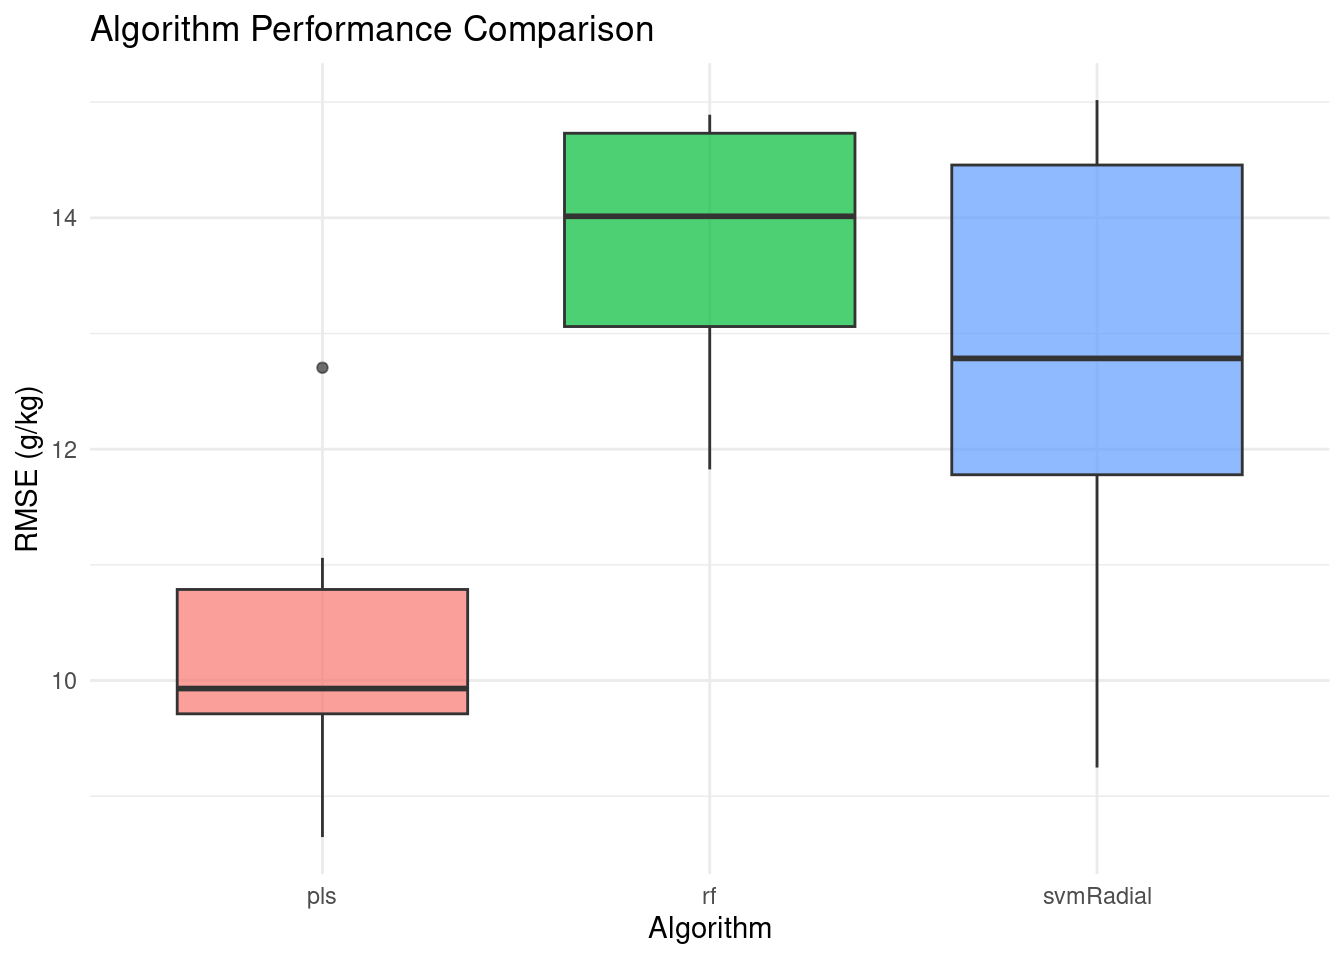
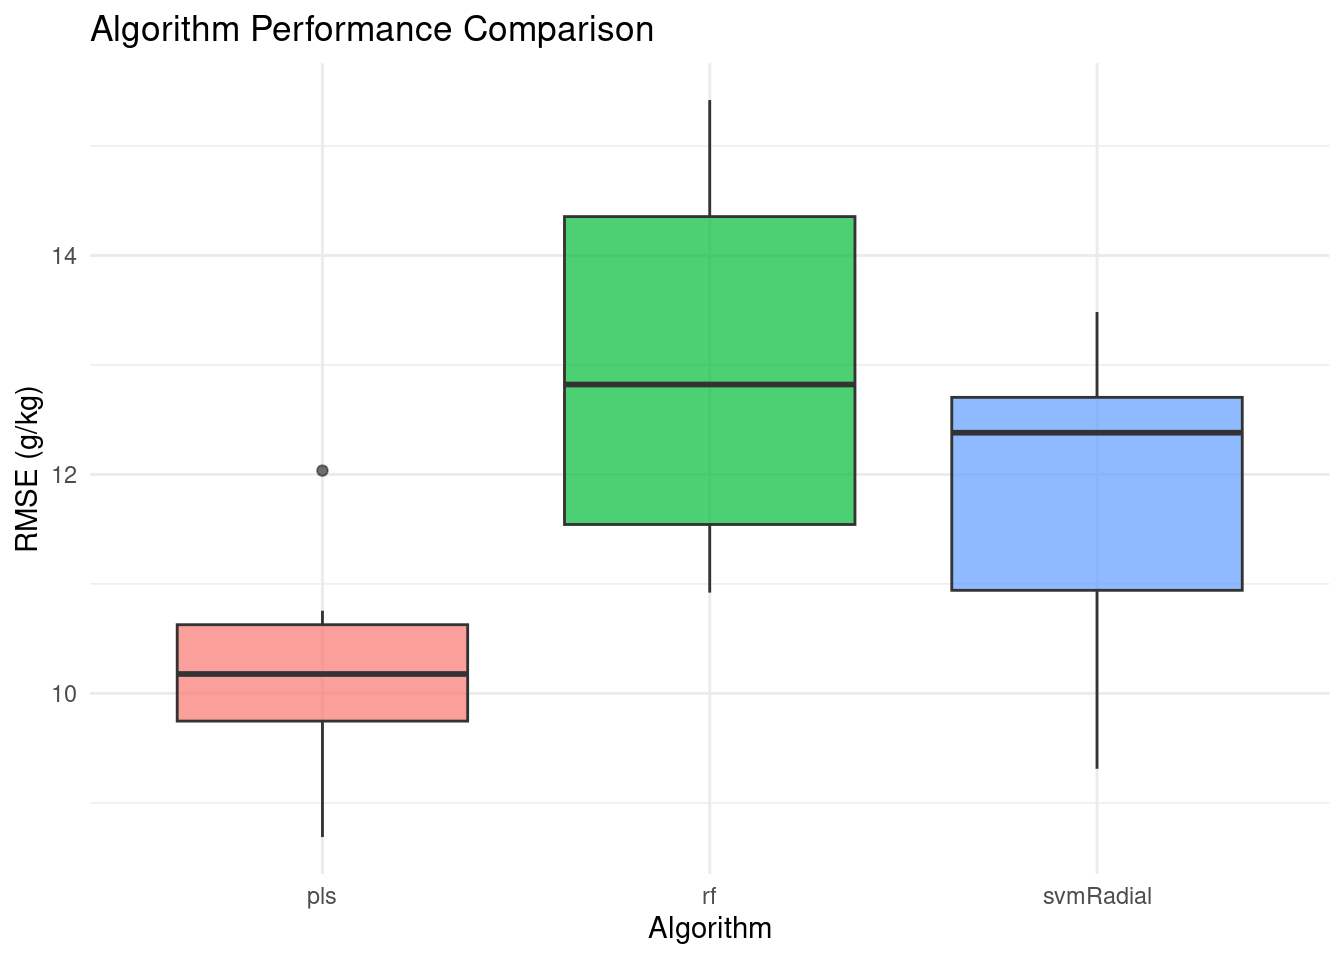
revised figures, some currently incorrect

diff --git a/docs/hemp_nir_paper.html b/docs/hemp_nir_paper.html
@@ -661,7 +661,10 @@ Table&nbsp;1: Sample distribution by location and type
 <p>Training and testing sets were created by dividing samples by their laboratory CP concentration values into tertiles to ensure that a representative range of values was present in both training and testing sets. Within each tertile, 75% of the samples were randomly assigned to the training set and the remaining 25% were assigned to the testing set. For each training set, models were developed in the caret package using PLSR. In fitting the model, the number of components was optimized over a grid search from 1-20. Model performance was evaluated with 25 iterations of bootstrapping and minimized RMSE in selecting the number of components in the final model.</p>
 <p>Initially a number of common spectral preprocessing methods were tested by creating 100 training and testing sets, as described above. Spectral data were transformed by each of the following methods: 1) first derivative; 2) Savitzky-Golay (SG) using the first derivative, third order polynomial, and a window of size five; 3) gap-segment derivative using the first derivative, a gap of 11, and a segment size of five; 4) SNV; 5) standard normal variate following Savitzky-Golay (SNV-SG) using the same SG parameters as above; 6) SNV-detrend with second order polynomial; and 7) multiplicative scatter correction. For comparison, models were also developed using untransformed spectra.</p>
 <p>For each of these preprocessing methods, models were fit and predictions were made on the corresponding testing set. Since there were seven preprocessing methods as well as untransformed spectra, eight separate models were fit for each of the 100 sets. The relationship between the predicted and actual values of the test set were calculated via RMSE, R<sup>2</sup>, relative predicted deviation (RPD), and ratio of performance to interquartile distance (RPIQ), four common model assessment metrics. Larger R<sup>2</sup>, RPD and RPIQ values and smaller RMSE values are best. The answer to the question of exactly which values constitute a “good” model varies depending upon the reference consulted, but for simplicity’s sake the standard established for an acceptable model was R<sup>2</sup> &gt; 0.80, an RPD greater than 2.5 and ideally greater than 3 (“good” to “excellent” quantitative prediction), and an RPIQ greater than 2.3 but ideally greater than 4.1 prediction on the testing set <span class="citation" data-cites="rawal_visible_2024 luce_prediction_2017 chadalavada_nir_2022">(<a href="#ref-chadalavada_nir_2022" role="doc-biblioref">Chadalavada et al., 2022</a>; <a href="#ref-luce_prediction_2017" role="doc-biblioref">Luce et al., 2017</a>; <a href="#ref-rawal_visible_2024" role="doc-biblioref">Rawal et al., 2024</a>)</span>.</p>
-<p>Analyses of variance were performed for each of these metrics in order to compare preprocessing methods. For each ANOVA, each data set was considered as a subject and different variances were allowed for each preprocessing method. Once the most promising preprocessing method was identified, 1000 more training and testing sets were created, and models were developed with that method. Performance on the testing sets was summarized with RMSE, R<sup>2</sup>, RPD, and RPIQ. The pattern of errors, expressed as the difference between the actual and predicted values for a given sample, was examined.</p>
+<p>Analyses of variance were performed for each of these metrics in order to compare preprocessing methods. For each ANOVA, each data set was considered as a subject and different variances were allowed for each preprocessing method. Once the most promising preprocessing method was identified,</p>
+<p>Next, three common machine learning algorithms were compared: PLS, RS, and SVM. Each comparison was permitted an optimal tuning using R’s caret package to ensure a fair comparison. One hundred comparisons were performed and the best algorithm was selected.</p>
+<p>Third, using the optimal preprocessing method identified above, one thousand training and testing sets were generated and models were developed. The larger number of iterations was feasible once the preprocessing method was selected, allowing for more robust performance estimates. Performance on the testing sets was summarized with RMSE, R<sup>2</sup>, RPD, and RPIQ. The pattern of errors, expressed as the difference between the actual and predicted values for a given sample, was examined.</p>
+<p>Finally, a protein-specific model was developed in order to investigate the biological basis for prediction differences. Variable importance scores were calculated across wavelengths.</p>
 </section>
 </section>
 <section id="results-and-discussion" class="level2" data-number="3">
@@ -744,59 +747,59 @@ Table&nbsp;3: Evaluation of Preprocessing Methods by Metric ± Standard Error
 <tbody>
 <tr class="odd">
 <td style="text-align: left;">SNV + Savitzky-Golay</td>
-<td style="text-align: left;">10.4 ± 1.2</td>
-<td style="text-align: left;">0.825 ± 0.051</td>
-<td style="text-align: left;">2.37 ± 0.35</td>
-<td style="text-align: left;">3.94 ± 0.61</td>
-</tr>
-<tr class="even">
-<td style="text-align: left;">First derivative</td>
-<td style="text-align: left;">10.5 ± 1.0</td>
-<td style="text-align: left;">0.822 ± 0.041</td>
-<td style="text-align: left;">2.32 ± 0.29</td>
-<td style="text-align: left;">3.85 ± 0.47</td>
-</tr>
-<tr class="odd">
-<td style="text-align: left;">Savitzky-Golay smoothing</td>
-<td style="text-align: left;">10.8 ± 1.2</td>
-<td style="text-align: left;">0.819 ± 0.054</td>
-<td style="text-align: left;">2.26 ± 0.28</td>
-<td style="text-align: left;">3.76 ± 0.53</td>
+<td style="text-align: left;">10.4 ± 1.0</td>
+<td style="text-align: left;">0.822 ± 0.068</td>
+<td style="text-align: left;">2.43 ± 0.44</td>
+<td style="text-align: left;">3.91 ± 0.99</td>
 </tr>
 <tr class="even">
 <td style="text-align: left;">Raw spectra</td>
-<td style="text-align: left;">10.9 ± 1.1</td>
-<td style="text-align: left;">0.818 ± 0.053</td>
-<td style="text-align: left;">2.25 ± 0.27</td>
-<td style="text-align: left;">3.74 ± 0.51</td>
+<td style="text-align: left;">10.5 ± 1.6</td>
+<td style="text-align: left;">0.824 ± 0.078</td>
+<td style="text-align: left;">2.44 ± 0.57</td>
+<td style="text-align: left;">3.93 ± 1.16</td>
 </tr>
 <tr class="odd">
-<td style="text-align: left;">Gap-segment derivative</td>
-<td style="text-align: left;">11.3 ± 1.8</td>
-<td style="text-align: left;">0.794 ± 0.068</td>
-<td style="text-align: left;">2.21 ± 0.41</td>
-<td style="text-align: left;">3.65 ± 0.64</td>
+<td style="text-align: left;">First derivative</td>
+<td style="text-align: left;">10.6 ± 1.5</td>
+<td style="text-align: left;">0.814 ± 0.084</td>
+<td style="text-align: left;">2.43 ± 0.56</td>
+<td style="text-align: left;">3.91 ± 1.18</td>
 </tr>
 <tr class="even">
-<td style="text-align: left;">Standard normal variate (SNV)</td>
-<td style="text-align: left;">11.3 ± 2.0</td>
-<td style="text-align: left;">0.792 ± 0.080</td>
-<td style="text-align: left;">2.22 ± 0.49</td>
-<td style="text-align: left;">3.67 ± 0.78</td>
+<td style="text-align: left;">Savitzky-Golay smoothing</td>
+<td style="text-align: left;">10.6 ± 1.8</td>
+<td style="text-align: left;">0.820 ± 0.086</td>
+<td style="text-align: left;">2.44 ± 0.58</td>
+<td style="text-align: left;">3.93 ± 1.18</td>
 </tr>
 <tr class="odd">
 <td style="text-align: left;">SNV + detrending</td>
-<td style="text-align: left;">11.7 ± 2.7</td>
-<td style="text-align: left;">0.780 ± 0.097</td>
-<td style="text-align: left;">2.19 ± 0.58</td>
-<td style="text-align: left;">3.64 ± 0.95</td>
+<td style="text-align: left;">10.9 ± 1.6</td>
+<td style="text-align: left;">0.817 ± 0.080</td>
+<td style="text-align: left;">2.33 ± 0.43</td>
+<td style="text-align: left;">3.75 ± 0.89</td>
+</tr>
+<tr class="even">
+<td style="text-align: left;">Gap-segment derivative</td>
+<td style="text-align: left;">11.1 ± 1.4</td>
+<td style="text-align: left;">0.814 ± 0.076</td>
+<td style="text-align: left;">2.28 ± 0.38</td>
+<td style="text-align: left;">3.66 ± 0.82</td>
+</tr>
+<tr class="odd">
+<td style="text-align: left;">Standard normal variate (SNV)</td>
+<td style="text-align: left;">11.4 ± 2.4</td>
+<td style="text-align: left;">0.796 ± 0.114</td>
+<td style="text-align: left;">2.29 ± 0.54</td>
+<td style="text-align: left;">3.69 ± 1.05</td>
 </tr>
 <tr class="even">
 <td style="text-align: left;">Multiplicative scatter correction</td>
-<td style="text-align: left;">11.8 ± 2.5</td>
-<td style="text-align: left;">0.773 ± 0.094</td>
-<td style="text-align: left;">2.16 ± 0.57</td>
-<td style="text-align: left;">3.59 ± 0.95</td>
+<td style="text-align: left;">11.7 ± 2.2</td>
+<td style="text-align: left;">0.785 ± 0.111</td>
+<td style="text-align: left;">2.21 ± 0.47</td>
+<td style="text-align: left;">3.56 ± 0.96</td>
 </tr>
 </tbody>
 </table>
@@ -851,28 +854,28 @@ Figure&nbsp;1: Comparing algorithms
 <tbody>
 <tr class="odd">
 <td style="text-align: left;">Partial Least Squares</td>
-<td style="text-align: center;">10.321 (±1.399)</td>
-<td style="text-align: center;">0.827 (±0.054)</td>
-<td style="text-align: center;">2.37 (±0.34)</td>
-<td style="text-align: center;">3.95 (±0.65)</td>
+<td style="text-align: center;">10.243 (±1.122)</td>
+<td style="text-align: center;">0.832 (±0.045)</td>
+<td style="text-align: center;">2.42 (±0.39)</td>
+<td style="text-align: center;">3.99 (±1.02)</td>
 <td style="text-align: center;">83.3%</td>
 <td style="text-align: center;">100%</td>
 </tr>
 <tr class="even">
 <td style="text-align: left;">Random Forest</td>
-<td style="text-align: center;">13.743 (±1.223)</td>
-<td style="text-align: center;">0.669 (±0.066)</td>
-<td style="text-align: center;">1.76 (±0.18)</td>
-<td style="text-align: center;">2.94 (±0.39)</td>
-<td style="text-align: center;">16.7%</td>
+<td style="text-align: center;">12.994 (±1.821)</td>
+<td style="text-align: center;">0.722 (±0.075)</td>
+<td style="text-align: center;">1.9 (±0.21)</td>
+<td style="text-align: center;">3.11 (±0.61)</td>
+<td style="text-align: center;">33.3%</td>
 <td style="text-align: center;">100%</td>
 </tr>
 <tr class="odd">
 <td style="text-align: left;">Support Vector Machine</td>
-<td style="text-align: center;">12.715 (±2.192)</td>
-<td style="text-align: center;">0.712 (±0.102)</td>
-<td style="text-align: center;">1.95 (±0.39)</td>
-<td style="text-align: center;">3.26 (±0.74)</td>
+<td style="text-align: center;">11.805 (±1.566)</td>
+<td style="text-align: center;">0.765 (±0.069)</td>
+<td style="text-align: center;">2.11 (±0.33)</td>
+<td style="text-align: center;">3.46 (±0.87)</td>
 <td style="text-align: center;">50%</td>
 <td style="text-align: center;">100%</td>
 </tr>
@@ -886,6 +889,9 @@ Figure&nbsp;1: Comparing algorithms
 <h2 data-number="5" class="anchored" data-anchor-id="final-model-development-and-summary"><span class="header-section-number">5</span> Final model development and summary</h2>
 <p>The model improved most rapidly as the number of components increased from one to seven, with the inclusion of each additional component being associated with a decrease in RMSE of 5%-12%. From eight to 12 components, model performance continued to improve, although gains were more modest. With 13 or more components, performance gains were minimal and the relative ranks of the models tended to be stable (<a href="#fig-model-calibration" class="quarto-xref">Figure&nbsp;2</a>).</p>
 <div class="cell">
+<div class="cell-output cell-output-stderr">
+<pre><code>`geom_smooth()` using formula = 'y ~ x'</code></pre>
+</div>
 <div class="cell-output-display">
 <div id="fig-model-calibration" class="quarto-figure quarto-figure-center quarto-float anchored">
 <figure class="quarto-float quarto-float-fig figure">
@@ -914,19 +920,10 @@ Figure&nbsp;3: Final model testing set performance over 1000 iterations
 </div>
 </div>
 </div>
-<p>Finally, the pattern of test set errors was examined on a per-sample basis by calculating the difference between the actual and predicted values for the samples in the test sets (<a href="#fig-validation-errors" class="quarto-xref">Figure&nbsp;4</a>). The models showed systematic bias, with overestimation in the lowest tertile and underestimation in the highest tertile samples. The variance of the errors did not increase appreciably as CP concentration increased.</p>
+<p>Finally, the pattern of test set errors was examined on a per-sample basis by calculating the difference between the actual and predicted values for the samples in the test sets (<strong>?@fig-validation-errors</strong>). The models showed systematic bias, with overestimation in the lowest tertile and underestimation in the highest tertile samples. The variance of the errors did not increase appreciably as CP concentration increased.</p>
 <div class="cell">
-<div class="cell-output-display">
-<div id="fig-validation-errors" class="quarto-figure quarto-figure-center quarto-float anchored">
-<figure class="quarto-float quarto-float-fig figure">
-<div aria-describedby="fig-validation-errors-caption-0ceaefa1-69ba-4598-a22c-09a6ac19f8ca">
-<img src="hemp_nir_paper_files/figure-html/fig-validation-errors-1.png" class="img-fluid figure-img" width="672">
-</div>
-<figcaption class="quarto-float-caption-bottom quarto-float-caption quarto-float-fig" id="fig-validation-errors-caption-0ceaefa1-69ba-4598-a22c-09a6ac19f8ca">
-Figure&nbsp;4: Testing set prediction errors on a per-sample basis. Actual sample value set to zero and samples ranked from least to greatest actual CP concentration value
-</figcaption>
-</figure>
-</div>
+<div class="cell-output cell-output-stdout">
+<pre><code>NULL</code></pre>
 </div>
 </div>
 <p>The research showed the promise of the use of NIRS in order to make predictions concerning CP concentration in hemp grain using PLS. Promising preprocessing methods were identified and a model was validated. Further research could refine the model by including more samples, particularly by rectifying the class imbalance between Geneva and Ithaca, identifying promising spectral regions, or by examining other predictive methods.</p>
@@ -960,17 +957,17 @@ Figure&nbsp;4: Testing set prediction errors on a per-sample basis. Actual sampl
 <tr class="odd">
 <td style="text-align: left;">Full Spectrum</td>
 <td style="text-align: right;">700</td>
-<td style="text-align: right;">12</td>
-<td style="text-align: right;">10.57470</td>
-<td style="text-align: right;">0.8105681</td>
+<td style="text-align: right;">15</td>
+<td style="text-align: right;">10.02667</td>
+<td style="text-align: right;">0.8411829</td>
 <td style="text-align: left;">Baseline</td>
 </tr>
 <tr class="even">
 <td style="text-align: left;">Protein-Focused</td>
 <td style="text-align: right;">110</td>
 <td style="text-align: right;">7</td>
-<td style="text-align: right;">11.35822</td>
-<td style="text-align: right;">0.7953493</td>
+<td style="text-align: right;">11.45580</td>
+<td style="text-align: right;">0.7966469</td>
 <td style="text-align: left;">15.7% of variables</td>
 </tr>
 </tbody>
@@ -985,7 +982,7 @@ Figure&nbsp;4: Testing set prediction errors on a per-sample basis. Actual sampl
 <img src="hemp_nir_paper_files/figure-html/fig-model-comparison-1.png" class="img-fluid figure-img" width="672">
 </div>
 <figcaption class="quarto-float-caption-bottom quarto-float-caption quarto-float-fig" id="fig-model-comparison-caption-0ceaefa1-69ba-4598-a22c-09a6ac19f8ca">
-Figure&nbsp;5: Comparing models developed using full and protein-specific spectra
+Figure&nbsp;4: Comparing models developed using full and protein-specific spectra
 </figcaption>
 </figure>
 </div>
@@ -999,7 +996,7 @@ Figure&nbsp;5: Comparing models developed using full and protein-specific spectr
 <section id="conflict-of-interest" class="level2" data-number="8">
 <h2 data-number="8" class="anchored" data-anchor-id="conflict-of-interest"><span class="header-section-number">8</span> CONFLICT OF INTEREST</h2>
 <p>The authors declare no conflict of interest.</p>
-<p><strong>Generated:</strong> 2025-07-01 12:51:46<br>
+<p><strong>Generated:</strong> 2025-07-01 13:49:08<br>
 <strong>Framework:</strong> Targets-based reproducible workflow</p>
 
 
